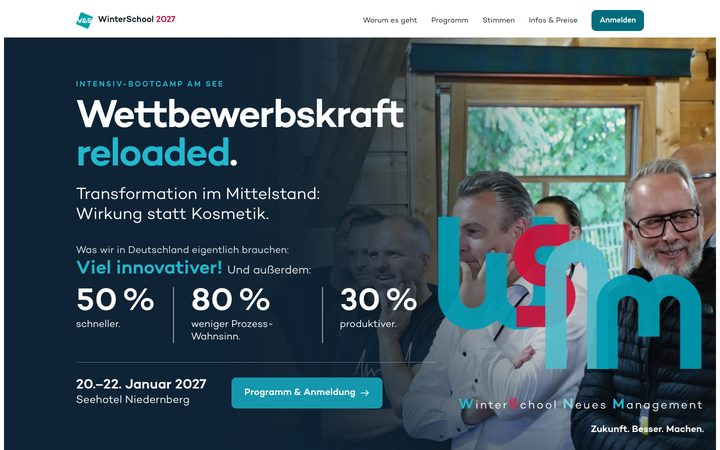
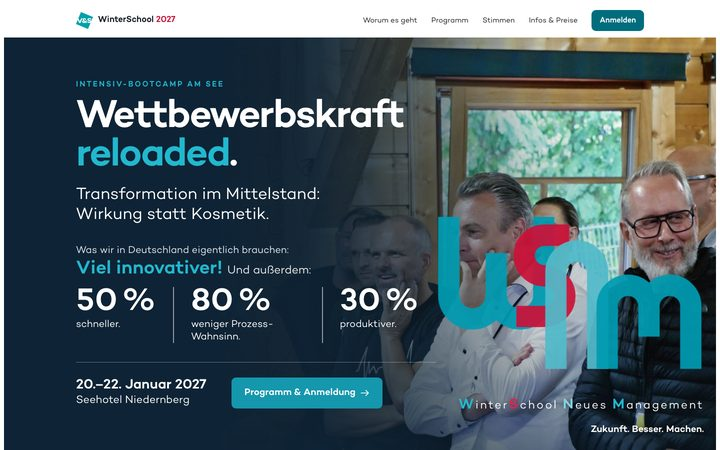
22: Animations-Button pumpt 4× beim Erscheinen; Thumbnails und Vorschau-Karte aktualisiert
Claude-Session: https://claude.ai/code/session_01A6FUCHn3aaXwuaYTU68Frh

diff --git a/22-wsnm-final.html b/22-wsnm-final.html
@@ -428,11 +428,15 @@
    ab 1400 px schräg, parallel zur oberen rechten Kante, darunter normal oben rechts */
 .ws27 .chal .btn.slant{position:relative;z-index:4;display:flex;width:max-content;max-width:calc(100% - 32px);margin:0 0 44px;background:#fff;color:var(--teal-d);font:inherit;font-weight:600;font-size:16px;padding:13px 22px;cursor:pointer;white-space:normal;text-align:left}
 .ws27 .chal .btn.slant:hover{background:#eef6f7}
+/* pumpt 4× sobald er ins Bild kommt (eigene scale-Eigenschaft, damit die Drehung bleibt) */
+@keyframes ws22-pump{0%,100%{scale:1;box-shadow:0 0 0 0 rgba(255,255,255,.6)}45%{scale:var(--pump,1.07);box-shadow:0 0 0 14px rgba(255,255,255,0)}}
+.ws27 .chal .btn.slant{transform-origin:left center}
+.ws27 .chal .btn.slant.pump{animation:ws22-pump .7s ease-in-out 4}
 @media (min-width:1400px){
   .ws27 .chal{padding-top:380px}
   .ws27 .chal>.wrap{position:static}   /* Button richtet sich an der Section aus, nicht an .wrap */
   .ws27 .chal .plane{clip-path:polygon(0 6%,calc(100% - 360px) 0,100% 396px,100% 100%,0 94%)}
-  .ws27 .chal .btn.slant{position:absolute;margin:0;max-width:none;white-space:nowrap;left:calc(100% - 218px);top:232px;transform:translate(-50%,-50%) rotate(47.7deg)}
+  .ws27 .chal .btn.slant{--pump:1.14;transform-origin:center;position:absolute;margin:0;max-width:none;white-space:nowrap;left:calc(100% - 218px);top:232px;transform:translate(-50%,-50%) rotate(47.7deg)}
   .ws27 .chal .btn.slant:hover{transform:translate(-50%,-50%) rotate(47.7deg)}
 }
 .ws27 .chal .grid{display:grid;grid-template-columns:380px 1fr;gap:70px;position:relative}
@@ -1556,6 +1560,10 @@
     if(on){ pars.forEach(function(el){ el.style.setProperty('--p',0); }); ['--hp','--mx','--my'].forEach(function(k){ hero.style.setProperty(k,0); }); mx=my=tx=ty=0; }
     else req();
     if(calmBtn){ calmBtn.textContent=on?'Animation wieder anschalten':'BOAH… Animation ausschalten. Sofort!'; calmBtn.setAttribute('aria-pressed',String(on)); }
+  }
+  if(calmBtn && !reduced && 'IntersectionObserver' in window){
+    var pio=new IntersectionObserver(function(es){ if(es[0].isIntersecting){ calmBtn.classList.add('pump'); pio.disconnect(); } },{threshold:.9});
+    pio.observe(calmBtn);
   }
   if(calmBtn){
     if(reduced) calmBtn.hidden=true;   /* Systemeinstellung „weniger Bewegung“: ist ohnehin alles still */

diff --git a/previews.html b/previews.html
@@ -118,7 +118,7 @@
   <section class="previews" aria-label="Live-Vorschauen der Entwürfe 11 bis 22">
     <!-- data-src = Datei; data-thumb = Vorschaubild bis die Seite geladen ist; data-hero = hat Varianten -->
     <article class="pv" id="e22" data-src="22-wsnm-final.html" data-thumb="22">
-      <div class="pv-head"><span class="num">22</span><h2>WSNM final<small>der Gewinner · 19 mit Hero A, ohne Umschalter · läuft unter der Startadresse</small></h2><div class="pv-tools"></div></div>
+      <div class="pv-head"><span class="num">22</span><h2>WSNM final<small>der Gewinner · 19 mit Hero A · 13 Fotos in der Diashow (3 große Plenum-Fotos) · Umschalter „Animation ausschalten“ · läuft unter der Startadresse</small></h2><div class="pv-tools"></div></div>
       <div class="stage"></div>
     </article>
     <article class="pv" id="e11" data-src="11-storytelling-hero.html" data-thumb="11" data-hero="a,b,c">
